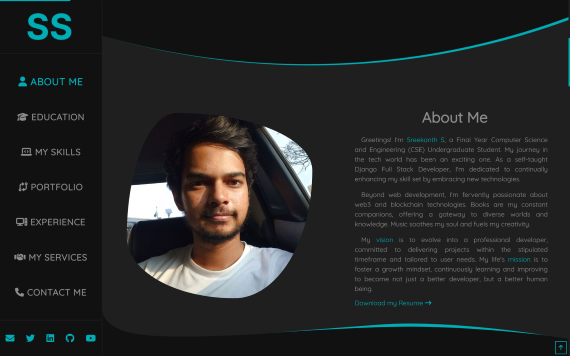
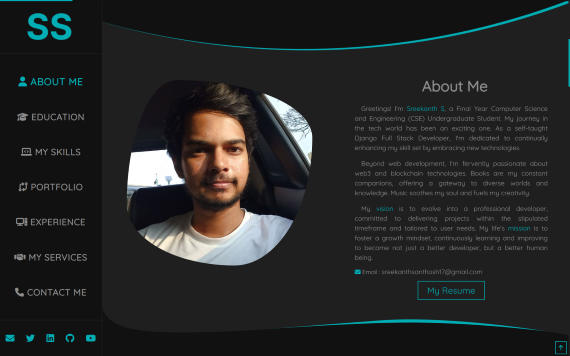
responsive update

diff --git a/styles/styles.css b/styles/styles.css
@@ -464,13 +464,27 @@ article > .main-heading {
   display: none;
 }
 
+@media screen and (min-width: 768px) and (max-width: 900px) {
 
-@media screen and (min-width: 1300px) {
-  .about-me-paragraph {
-    transform: translateY(8%);
-    padding: 0 2.5em;
-  }
+.about-me-paragraph p, .about-me-paragraph a, .about-me-paragraph span, .about-me-paragraph i{
+  font-size: 1.5vw;
 }
+.about-me-paragraph {
+  padding: 0 2.5em;
+}
+}
+@media screen and (min-width: 540px) and (max-width: 768px) {
+
+  .about-me-paragraph {
+    padding: 0 2.4em;
+  }
+  }
+@media screen and (min-width: 901px) and (max-width: 1200px) {
+
+  .about-me-paragraph p, .about-me-paragraph a, .about-me-paragraph span, .about-me-paragraph i{
+    font-size: 1.2vw;
+  }
+  }
 @media screen and (min-width: 900px) {
   .about-me > .main-heading {
     display: none;
@@ -479,13 +493,19 @@ article > .main-heading {
     border: 0;
     display: block;
   }
-  img.myaboutimg{
-    transform: translateY(50px);
-  }
+  
 }
 @media screen and (max-width: 700px) {
   .about-me .about-me-paragraph {
     padding-top: 0.5em;
+  }
+}
+@media screen and (min-width: 1300px) {
+  .about-me-paragraph {
+    padding: 0 2.5em;
+  }
+  img.myaboutimg:hover{
+    transform: scale(1.1);
   }
 }
 /*==================Education section======================*/

diff --git a/index.html b/index.html
@@ -219,7 +219,7 @@
             <img
               src="./images/newmwimg.jpg"
               alt="my photo"
-              class="card-img my-2 mx-auto hidden hovereffect myaboutimg"
+              class="card-img my-2 mx-auto hidden myaboutimg"
               style="
                 max-width: 500px;
                 border-radius: 27% 73% 42% 58% / 67% 31% 69% 33%;
@@ -256,12 +256,11 @@
                 not just a better developer, but a better human being.
               </p>
               <br />
-              <i class="fa-solid fa-envelope" style="color: #00adb5"></i> Email
-              :
+              <i class="fa-solid fa-envelope" style="color: #00adb5"></i> <span>Email :</span>
               <a href="mailto:sreekanthsanthosh17@gmail.com"
                 >sreekanthsanthosh17@gmail.com</a
               ><br><br>
-              <div class="d-flex justify-content-center mb-3">
+              <div class="d-flex justify-content-center">
                 <a href="./images/Resume.pdf" class="know-more-btn" download
                   >My Resume</a
                 >
